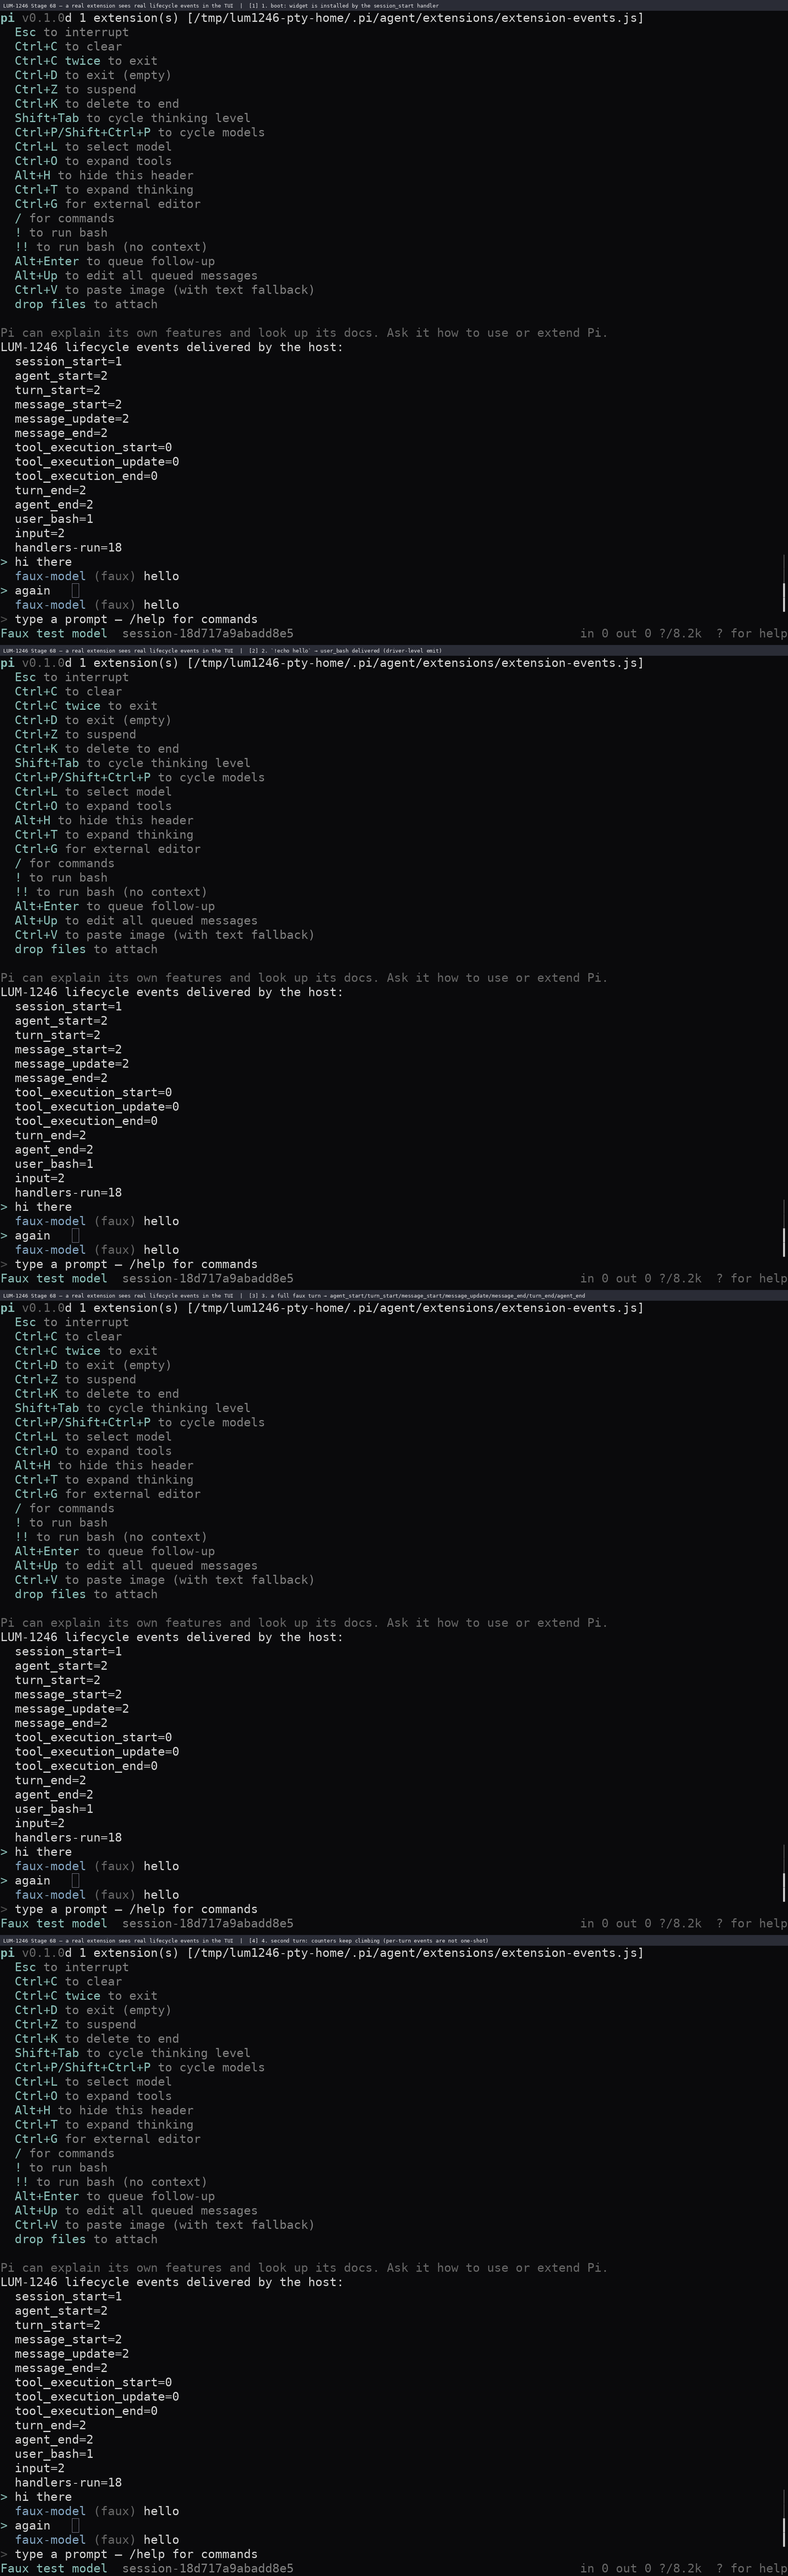
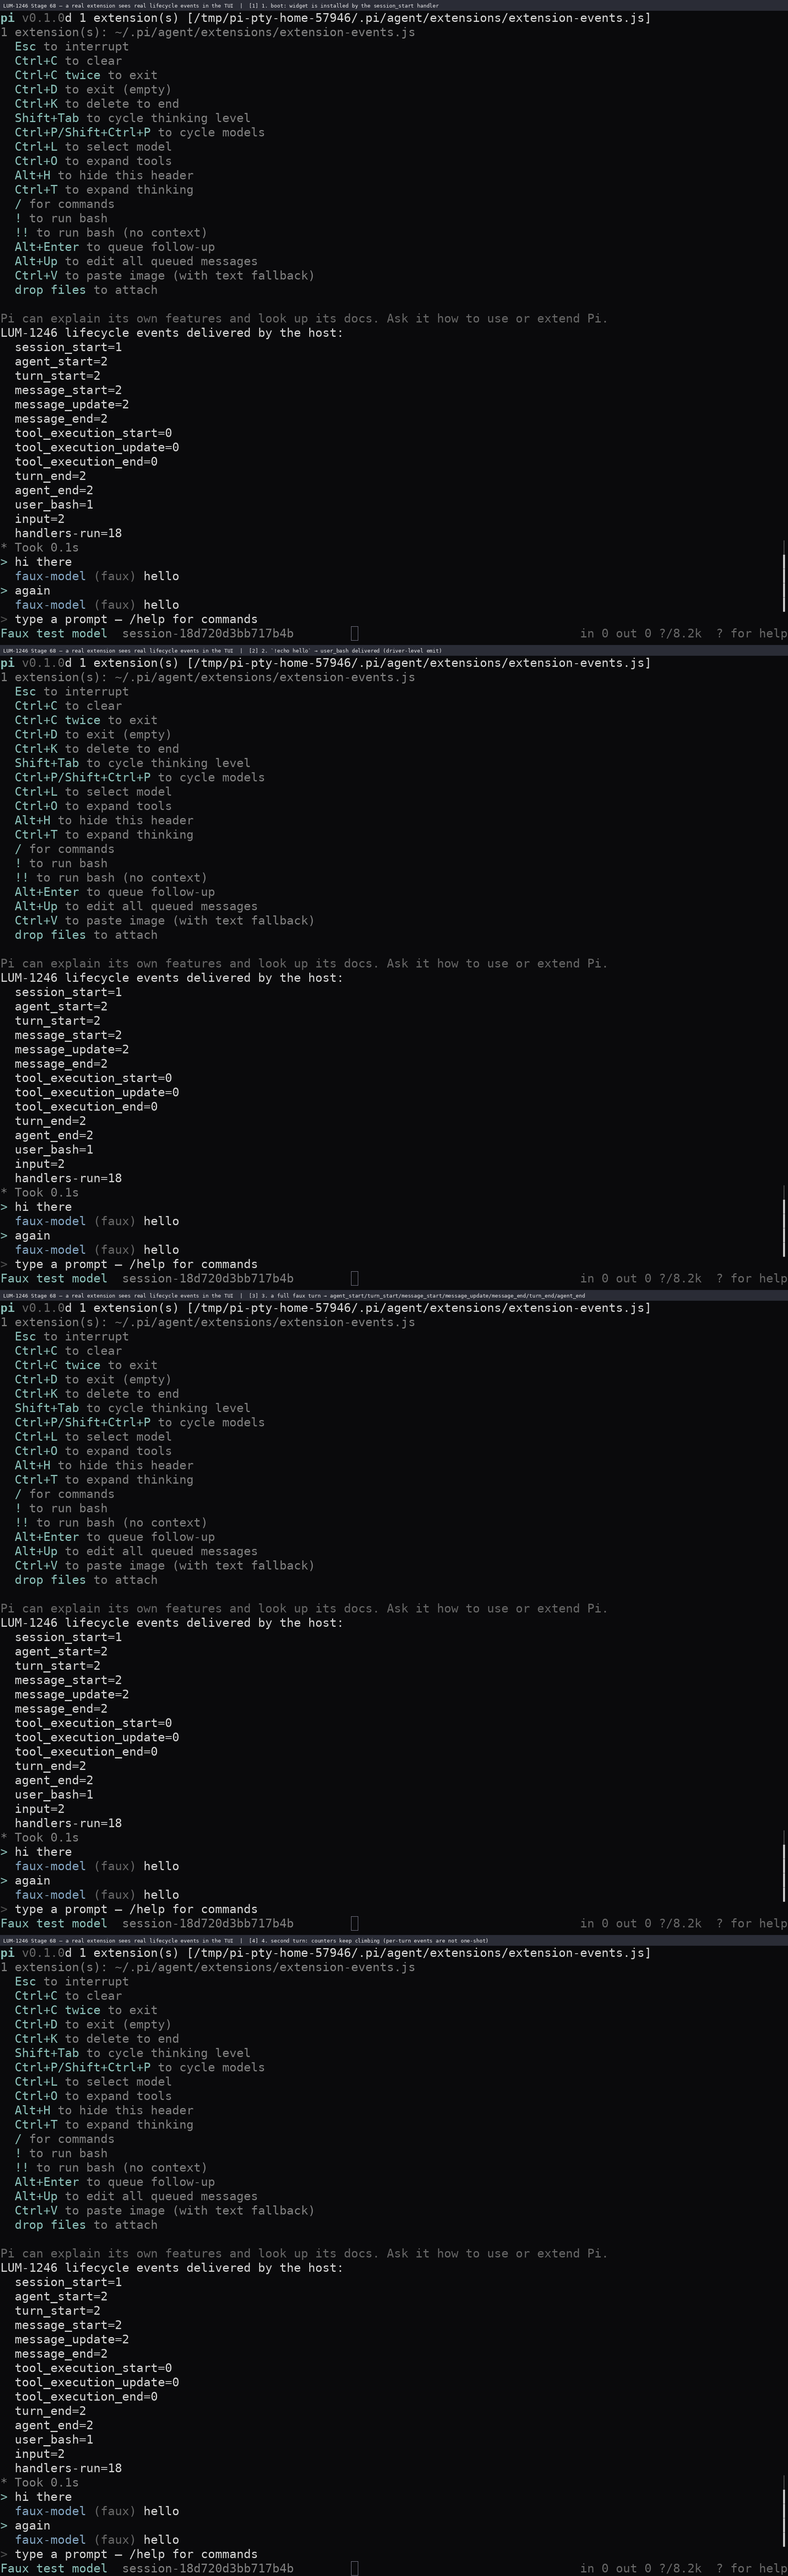
docs(pi-rust): LUM-1256 在最终 tip 上重拍 PTY 截图（跳转指示器为 LUM-1257 居中版）
合并把 jump-to-latest 指示器换成了 LUM-1257 的实现（居中 + 覆盖单元格先清底 +
按可见宽度截断），几何与合并前那张截图不同，所以用重建后的二进制重拍并逐字核对：

- `lum1256-input-surface.png{,.txt}` 面板 9：`↓ Jump to latest message · End` 落在
  列 40~71，居中于 110 列宽 → 证明跑的是 LUM-1257 版而非已删除的右对齐版；
- 同一次会话里 Stage 71 抬头（`1 extension(s)`）、`/extensions` 输出
  `> providers: (none)`、Stage 68 计数器爬到 `agent_start=4 / turn_end=4 /
  handlers-run=33` 均保持成立；
- `lum1246-extension-events.png{,.txt}` 同样在最终 tip 上重拍。

diff --git a/pi-rust/docs/TUI_UX_AUDIT.md b/pi-rust/docs/TUI_UX_AUDIT.md
@@ -1985,7 +1985,9 @@ python3 scripts/pty_capture.py --bin ./target/debug/pi \
   turn_end=4 / agent_end=4 / input=4 / handlers-run=33`——**这些不是单测断言，是真扩展在真 TUI 里收到的**；
 - `/` → 内置命令候选、`/he` → 模糊收窄、`@src/` → `❯ lib.rs  src/lib.rs` / `main.rs  src/main.rs`
   （Stage 70 的补全接线，且选中行是 `❯` 而不是重复绘制的底色块）；
-- PgUp 脱钩后消息视口底行出现 `↓ Jump to latest message · End`；
+- PgUp 脱钩后消息视口底行出现 `↓ Jump to latest message · End`，**居中**（列 40~71，居中于 110 列宽）
+  ——这是合并后保留的 LUM-1257 版几何（LUM-1238 的右对齐版已被删除），这张截图是在
+  最终 tip 上重拍并逐字核对的，所以可用来区分两份实现；
 - `/help` 正文以 `· ` 开头、composer 仍是 `> `（`Role::Info`）。
 
 ![LUM-1256 合并 tip：一镜覆盖补全 / 扩展可见性 / 生命周期事件 / jump-to-latest / 信息块前缀](screenshots/lum1256-input-surface.png)
